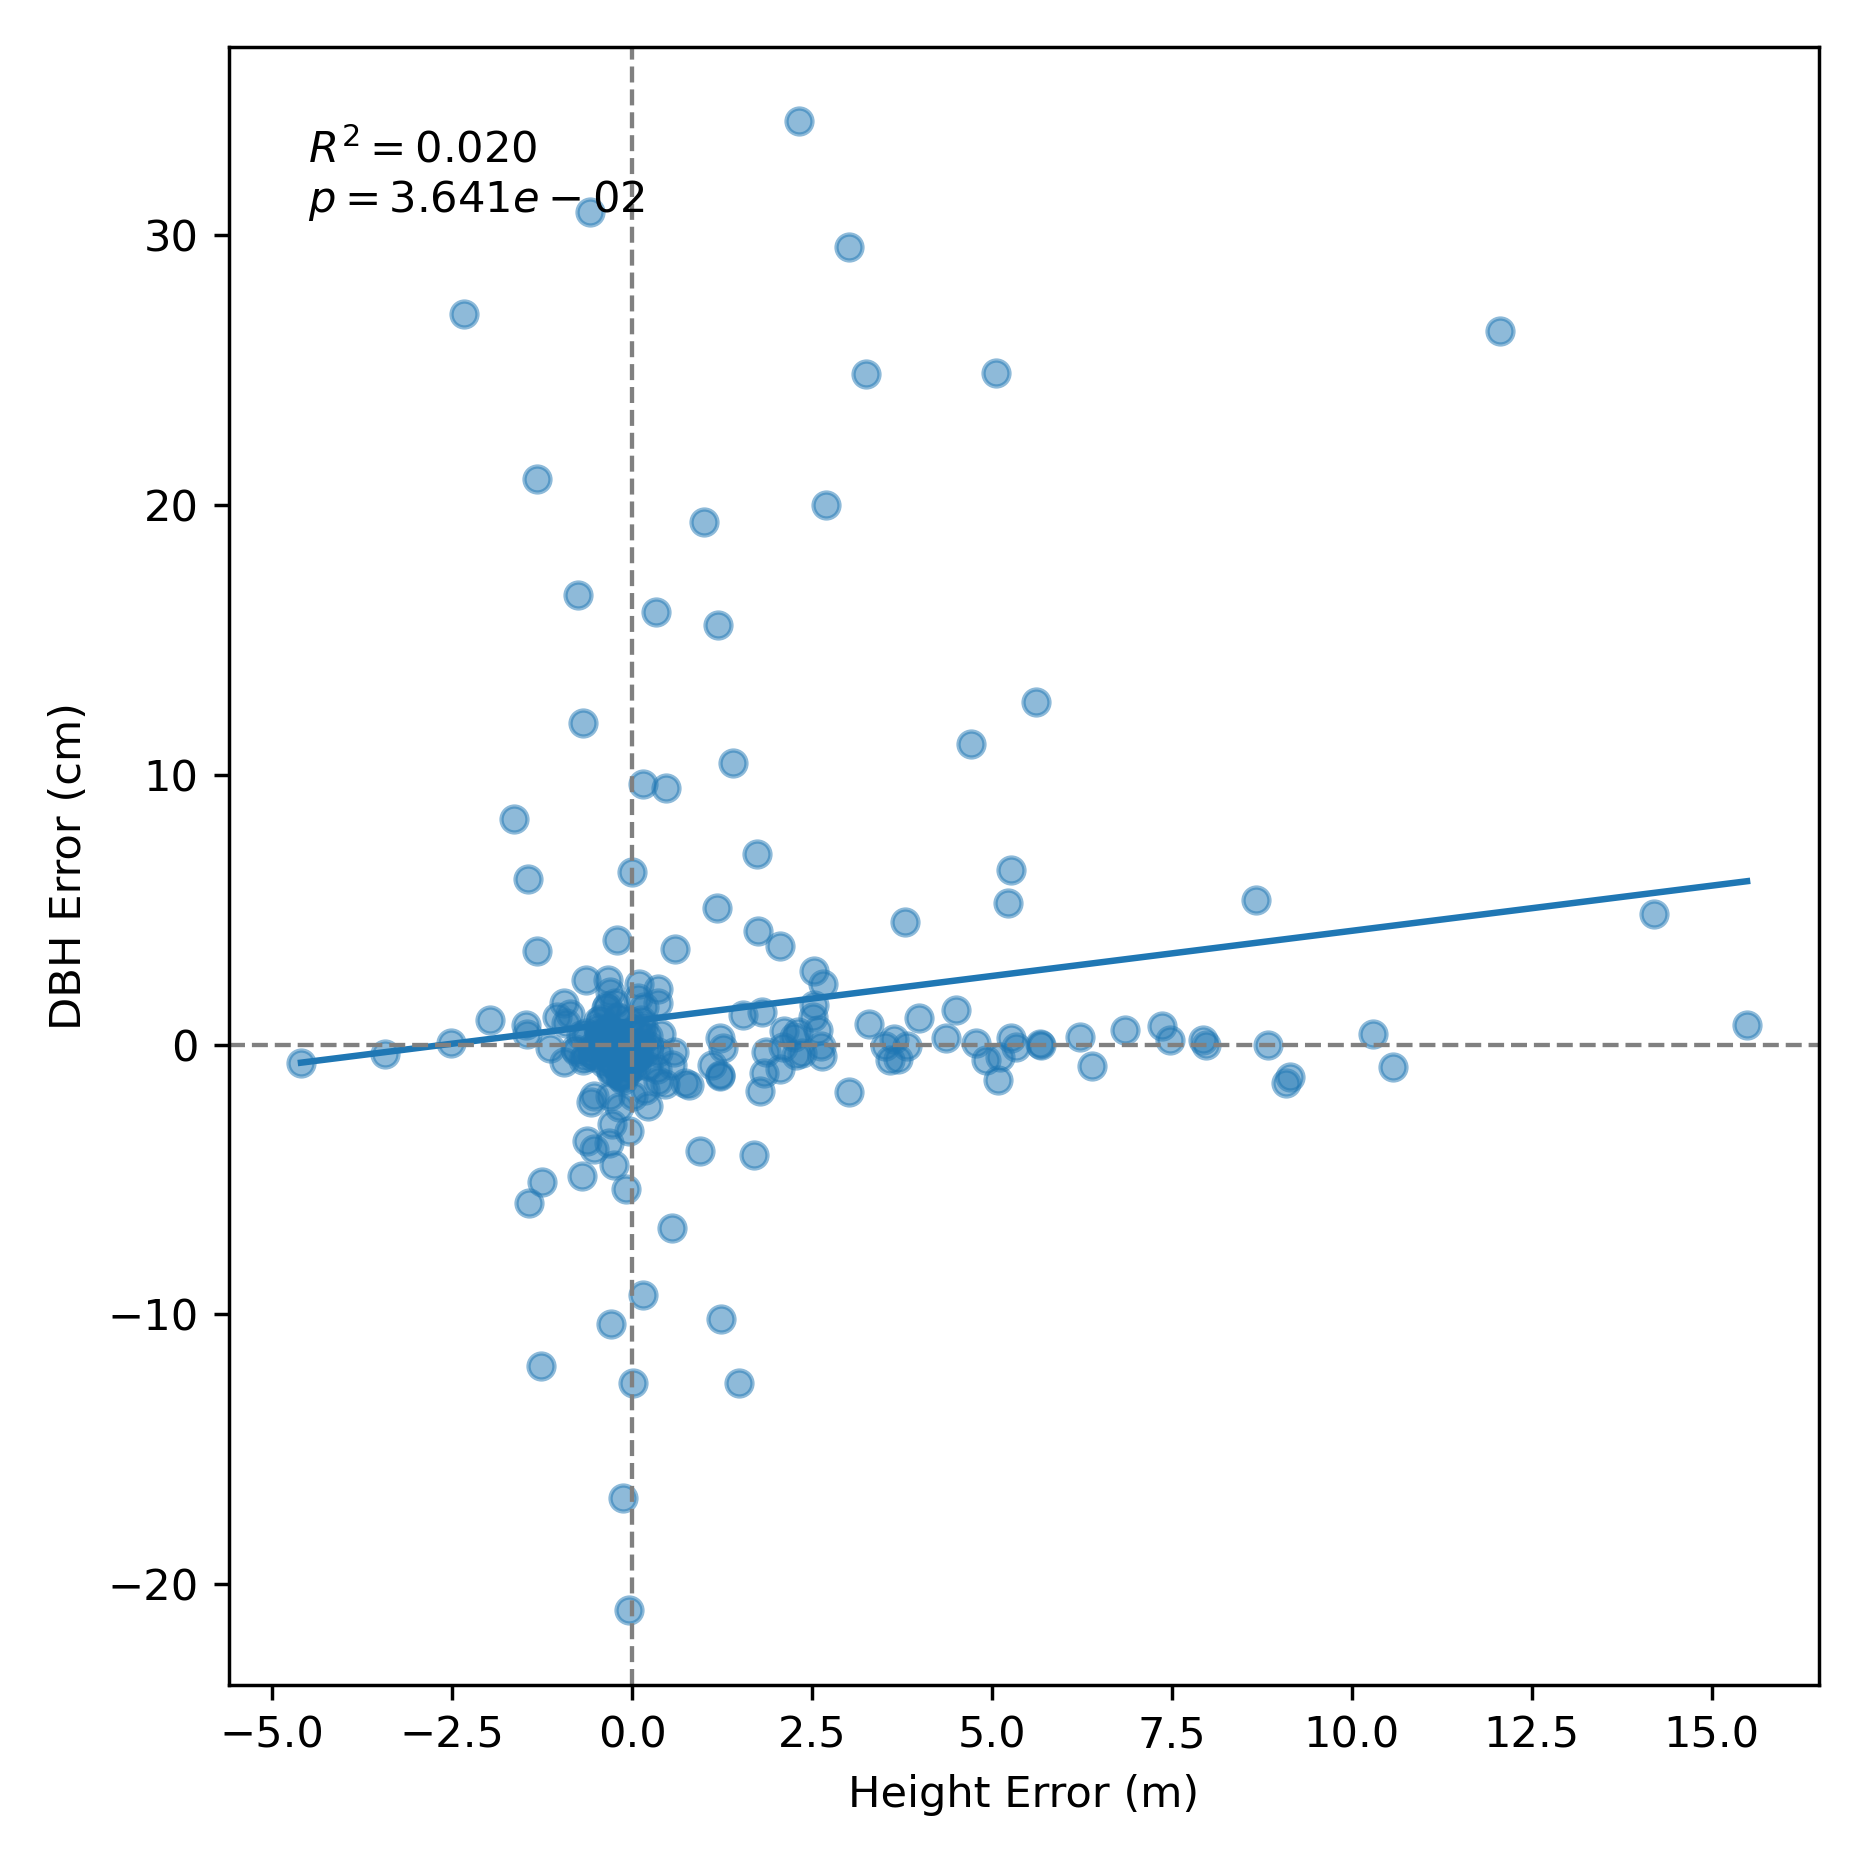
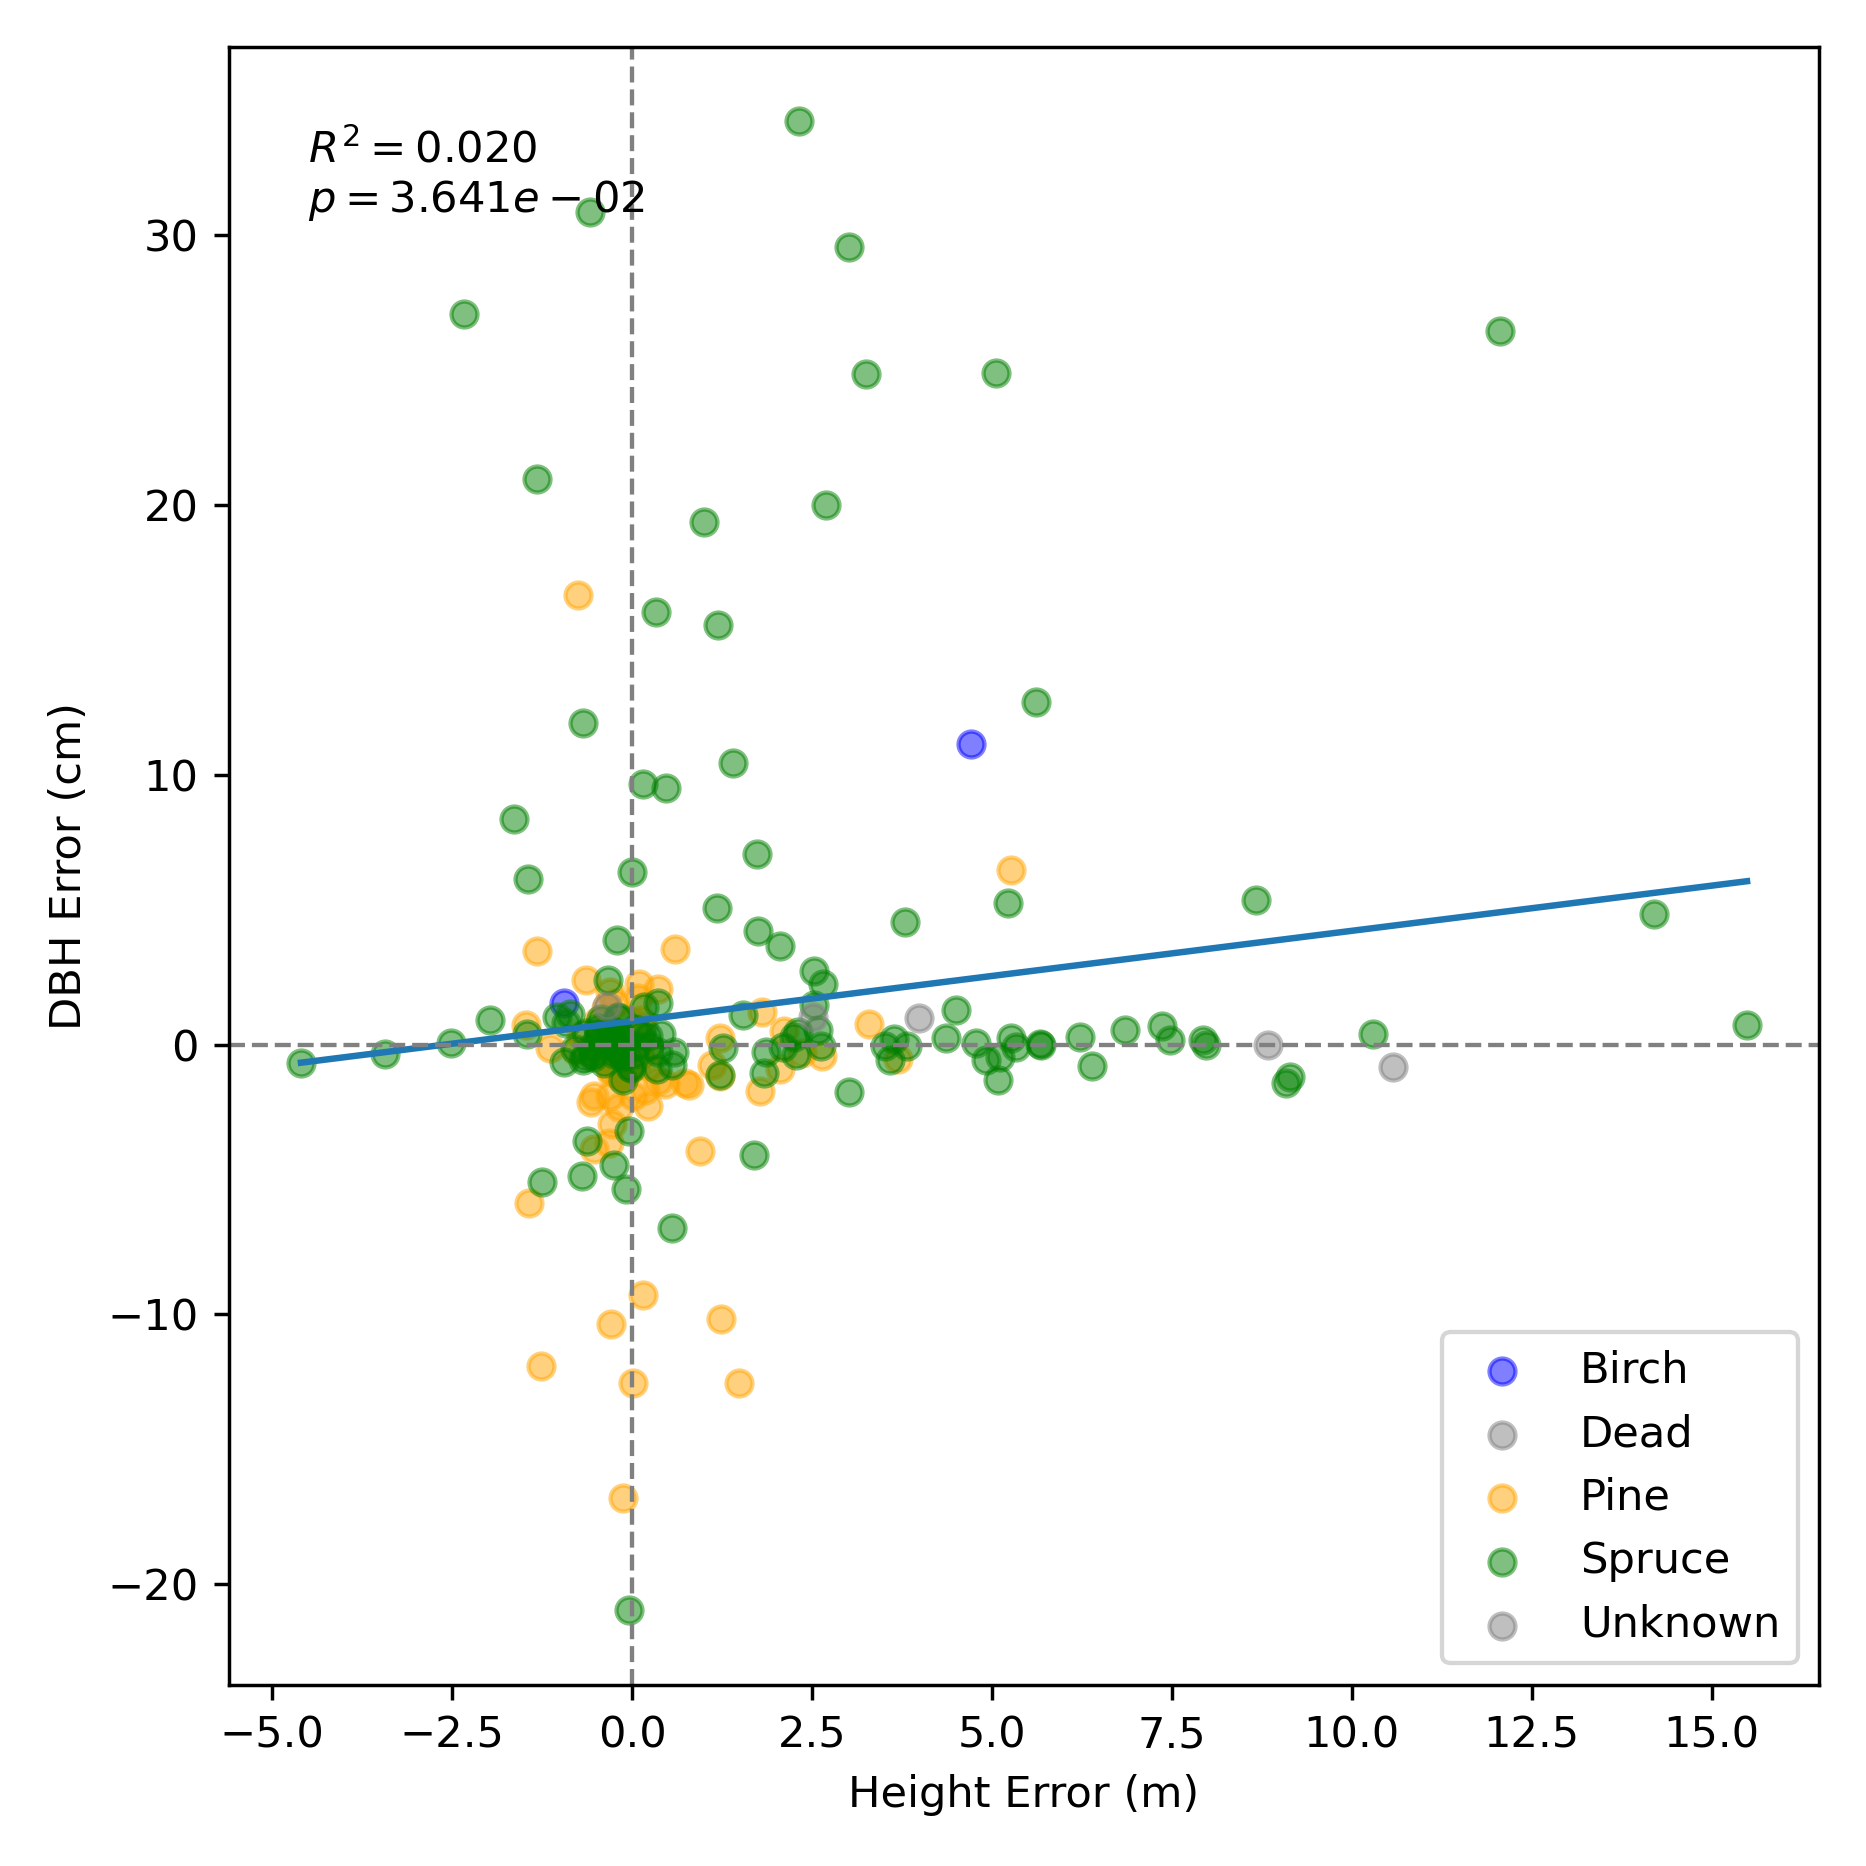
updated w species

diff --git a/5.DBH_extraction/analyse_biomass_results.py b/5.DBH_extraction/analyse_biomass_results.py
@@ -234,11 +234,22 @@ def plot_dbh_error_vs_height_error(df, output_folder):
     # ---------------------------------
     plt.figure(figsize=(6, 6))
 
-    plt.scatter(
-        df["height_error"],
-        df["dbh_error"],
-        alpha=0.5
-    )
+    species_colors = {
+        "Pine": "orange",
+        "Spruce": "green",
+        "Birch": "blue"
+    }
+
+    for sp, group in df.groupby("Species_name"):
+        plt.scatter(
+            group["height_error"],
+            group["dbh_error"],
+            alpha=0.5,
+            label=sp,
+            color=species_colors.get(sp, "gray")
+        )
+
+    plt.legend()
 
     slope, intercept, r_value, p_value, std_err = linregress(
         df["height_error"],
@@ -262,6 +273,7 @@ def plot_dbh_error_vs_height_error(df, output_folder):
 
     plt.xlabel("Height Error (m)")
     plt.ylabel("DBH Error (cm)")
+    
 
     plt.text(
         0.05, 0.95,
